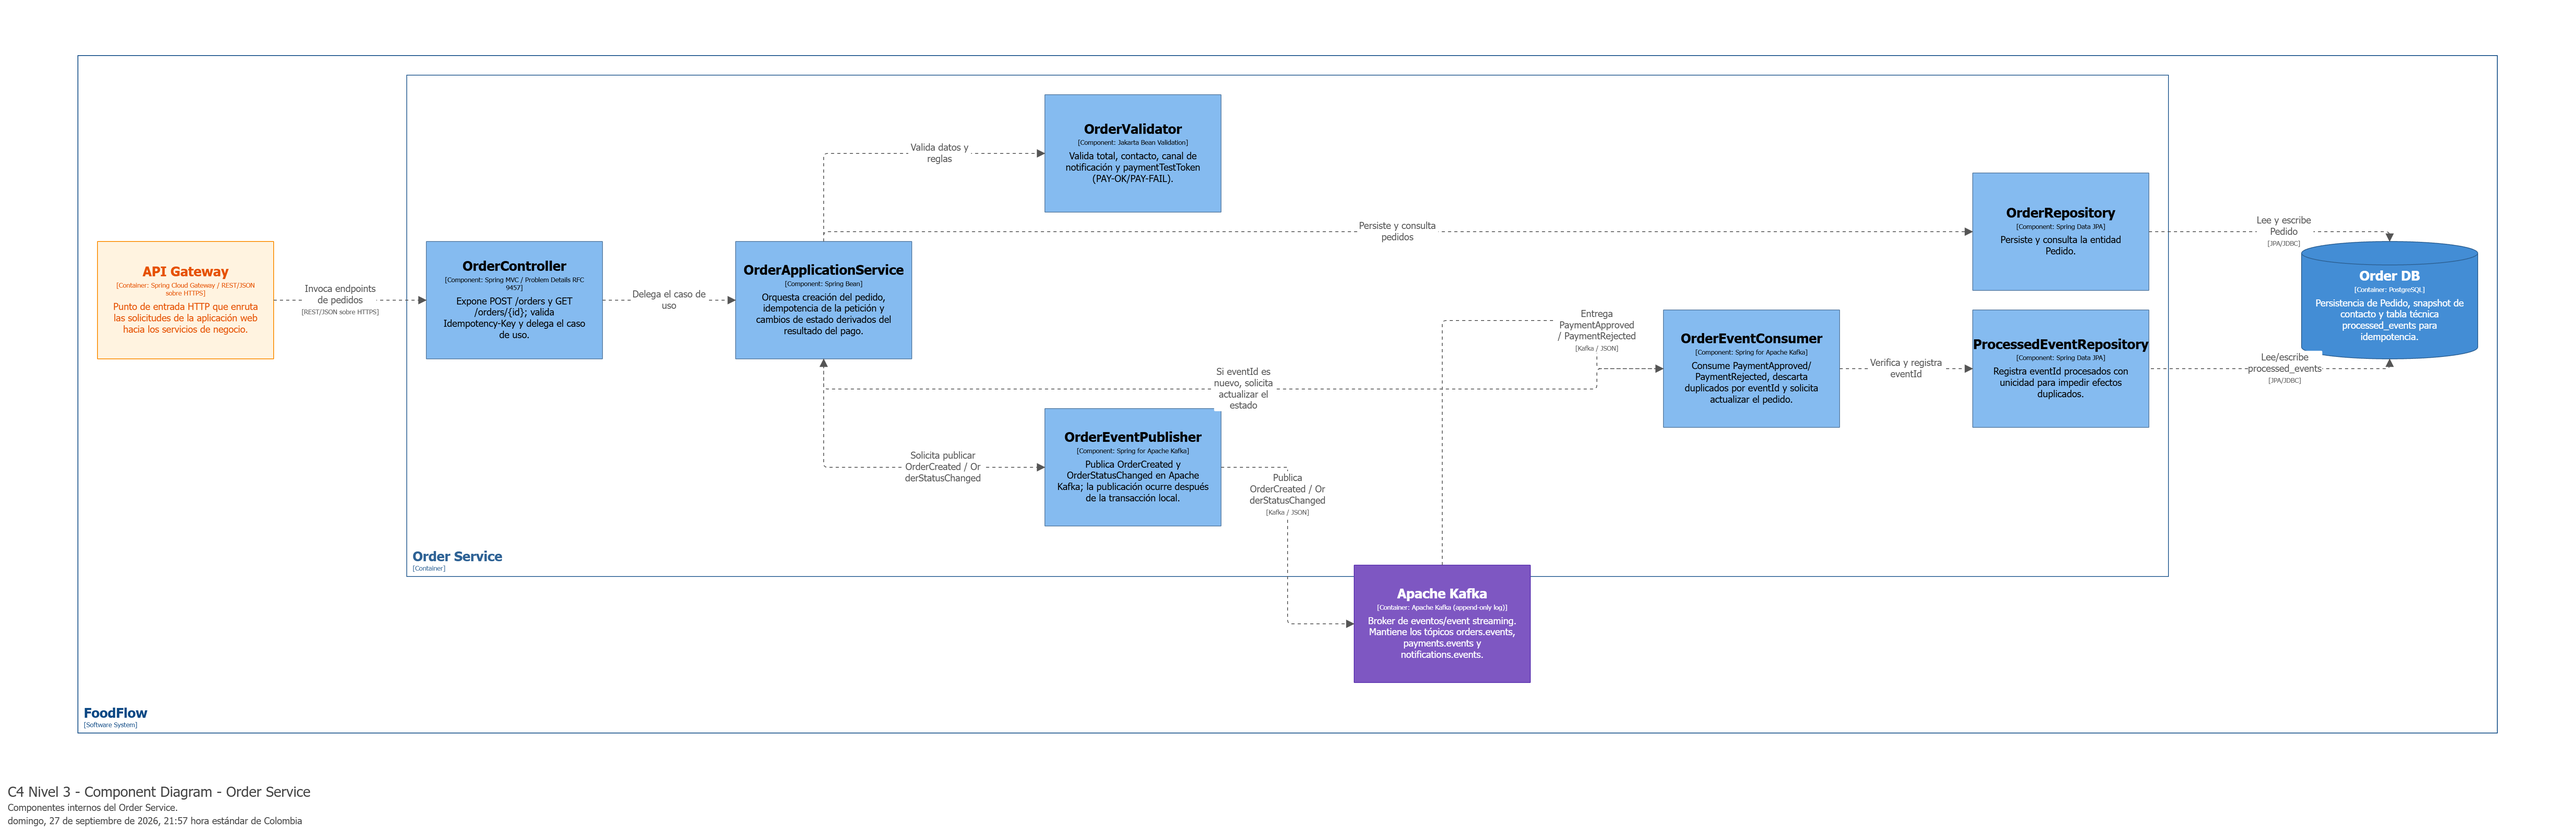
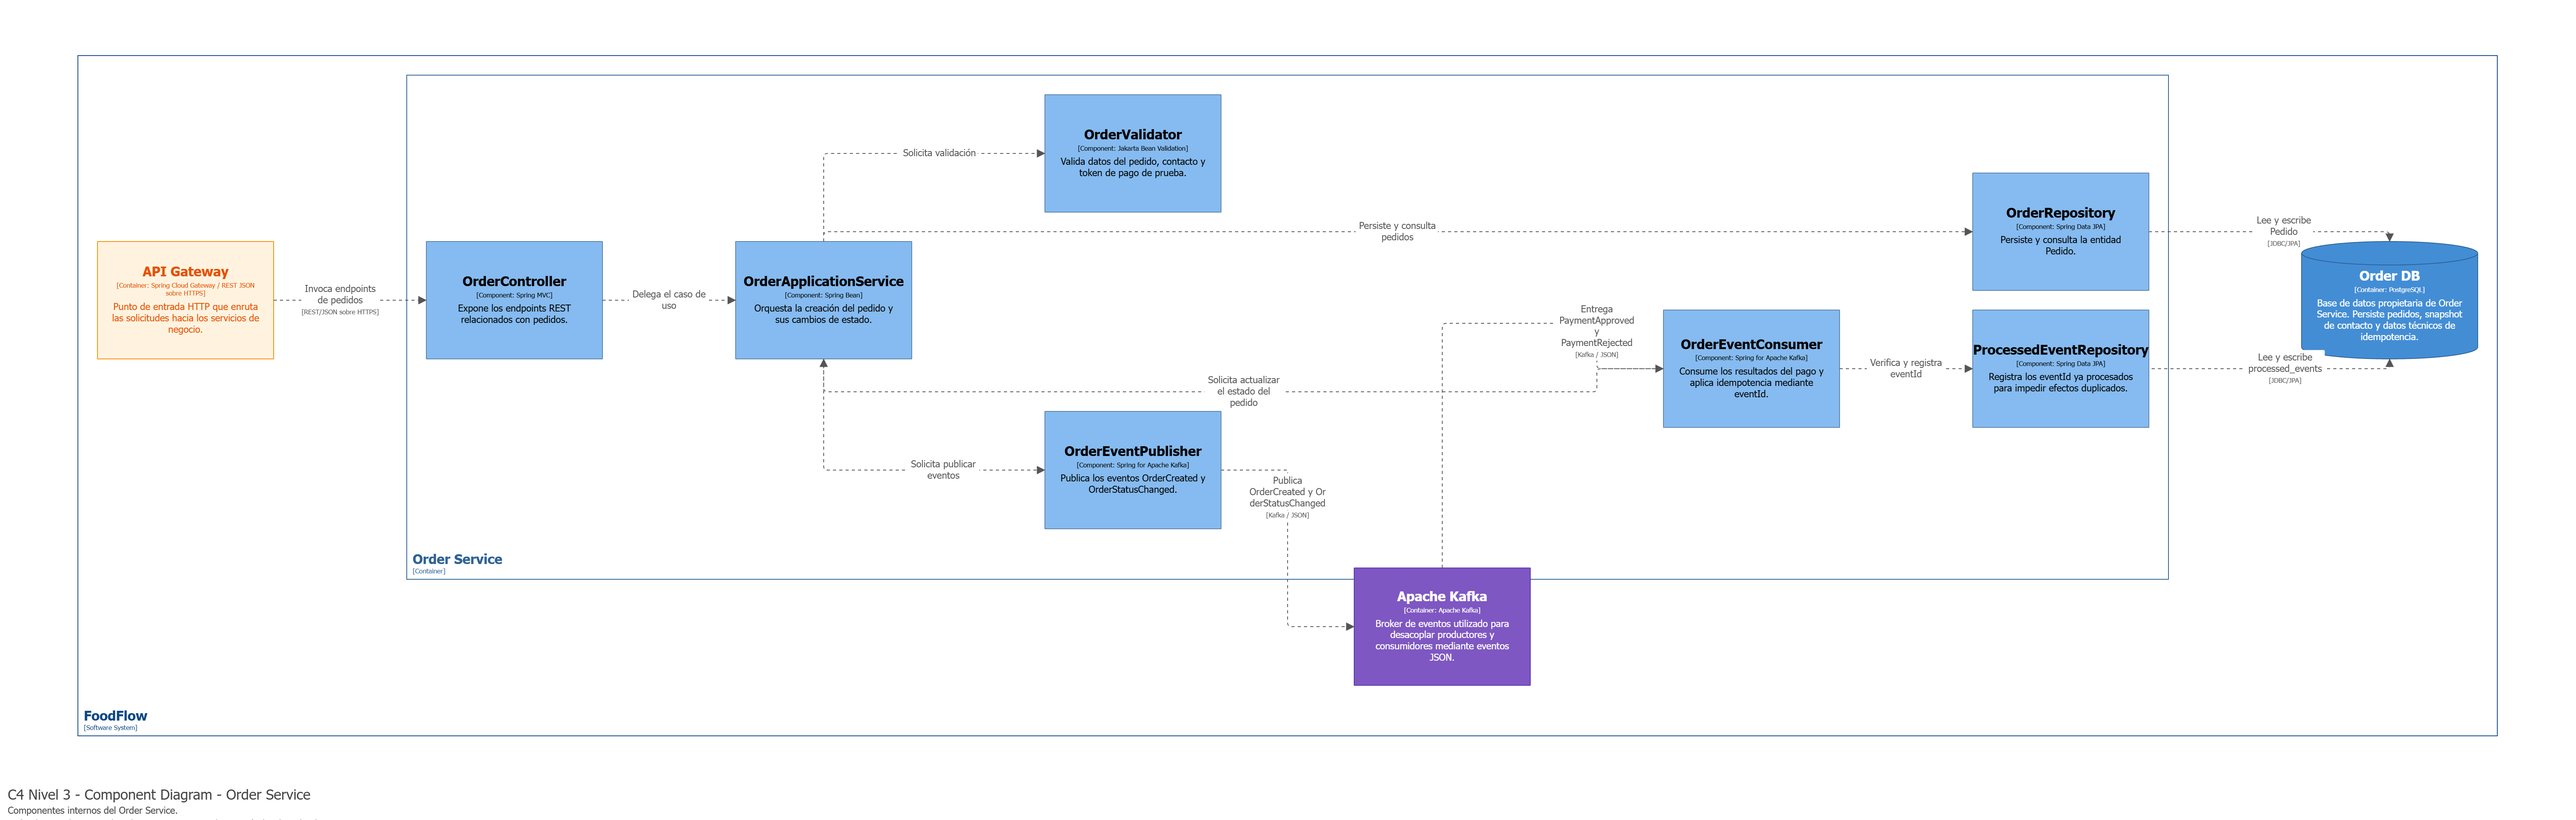
docs(diagramas): alinea diagramas y fuentes con el abanico y añade gráficas por nivel [HU-704] (#121)

diff --git a/docs/informe/propuesta-mercado-laboral-graficas.md b/docs/informe/propuesta-mercado-laboral-graficas.md
@@ -1,0 +1,117 @@
+# Propuesta: gráficas por nivel de experiencia en §2.5
+
+[← Informe técnico](README.md)
+
+> `main.tex` lo edita únicamente Sara (`CLAUDE.md` §1). Esta página **propone** el cambio; no lo aplica.
+
+## Qué se propone
+
+Añadir a la sección **2.5 «Matriz de Mercado Laboral vs Estilo y Stack»** cuatro gráficas que separan la información laboral por nivel de experiencia:
+
+| Figura | Archivo (ya en el repositorio) | Fuente |
+|---|---|---|
+| Vacantes Junior por tecnología | `docs/informe/figuras/vacantes_junior_colombia.png` | `vacantes_junior_colombia.mmd` |
+| Vacantes Senior por tecnología | `docs/informe/figuras/vacantes_senior_colombia.png` | `vacantes_senior_colombia.mmd` |
+| Salario mensual observado, perfiles Junior | `docs/informe/figuras/salarios_junior_colombia.png` | `salarios_junior_colombia.mmd` |
+| Salario mensual observado, perfiles Senior | `docs/informe/figuras/salarios_senior_colombia.png` | `salarios_senior_colombia.mmd` |
+
+Las fuentes están en `docs/wiki/02-arquitectura/diagramas/fuentes/`. Las imágenes están en la ruta relativa a `main.tex`, así que el bloque compila sin tocar `\graphicspath`.
+
+**Dónde insertarlo:** justo después de la figura «Mercado laboral - ofertas publicadas durante el último mes» (`figuras/ofertas-mercado-laboral.png`) y antes del comentario `% 3. DISENO EJEMPLO PRACTICO`.
+
+## Antes de aplicarlo: tres puntos a decidir
+
+1. **Las cifras salariales no tienen `\cite`.** Las notas dicen «vacantes reales publicadas en Colombia durante 2026», pero no identifican las vacantes: Junior 3.0 / 2.75 / 4.4 / 5.5 M y Senior 16.5 / 9.0 / 7.0 / 16.0 M. El criterio 3 de HU-702 exige que ninguna cifra quede sin fuente. Hace falta un `\bibitem` por vacante, como `job-java-81` o `job-kafka-9m`, y citarlo en la nota de cada figura. Los conteos de vacantes sí tienen metodología reproducible (LinkedIn, filtros *Entry level* y *Mid-Senior level*, corte del 30-09-2026), pero conviene citarlos igual que `linkedin-*-jobs`.
+2. **Los salarios Senior no cuadran con la matriz.** La matriz de §2.5 da para Java + Spring Boot «COP 8.1 M/mes; otras ofertas revisadas: aprox. COP 4.5--10 M», y CENISOFT/Fedesoft «Senior Tipo I COP 6.7--9.1 M/mes». La gráfica Senior pone Spring Boot en **16.5 M** y Kafka en **16.0 M**. Puede ser correcto con otra muestra, pero el texto tendría que explicar la diferencia o la matriz y la gráfica se contradicen.
+3. **La gráfica salarial anterior sigue en el informe.** `figuras/mercado-laboral.png` todavía muestra Kafka en 9.5 M; la fuente ya se corrigió a 9.0 M, que es el tope publicado de `job-kafka-9m`. Hay dos opciones: reexportarla desde `mercado-laboral.mmd` o retirarla si las cuatro gráficas nuevas la sustituyen.
+
+## Bloque LaTeX propuesto
+
+```latex
+\subsubsection{Mercado laboral por nivel de experiencia}
+
+Las siguientes gráficas separan la información laboral observada por nivel de experiencia y por tecnología. Para las vacantes se utilizan los filtros de experiencia de LinkedIn Colombia; para los salarios, valores observados en vacantes reales publicadas en Colombia durante 2026. En todos los casos las cifras deben interpretarse como evidencia observacional y no como estadísticas oficiales del mercado laboral colombiano.
+
+\begin{figure}[H]
+    \centering
+    \includegraphics[width=0.88\textwidth]{figuras/vacantes_junior_colombia.png}
+    \caption{Vacantes Junior por tecnología en Colombia durante el último mes.}
+    \label{fig:vacantes-junior}
+
+    \vspace{0.2cm}
+    \begin{minipage}{0.92\textwidth}
+        \footnotesize
+        \textit{Fuente y metodología:} resultados públicos de búsqueda en LinkedIn Colombia, con corte al 30 de septiembre de 2026 y publicaciones del último mes. Para el nivel Junior se utilizó el filtro de experiencia \textit{Entry level}. Los valores corresponden a resultados de búsqueda por palabra clave y no representan una estadística oficial de empleo ni garantizan que todas las publicaciones sean vacantes únicas.
+    \end{minipage}
+\end{figure}
+
+\begin{figure}[H]
+    \centering
+    \includegraphics[width=0.88\textwidth]{figuras/vacantes_senior_colombia.png}
+    \caption{Vacantes Senior por tecnología en Colombia durante el último mes.}
+    \label{fig:vacantes-senior}
+
+    \vspace{0.2cm}
+    \begin{minipage}{0.92\textwidth}
+        \footnotesize
+        \textit{Fuente y metodología:} resultados públicos de búsqueda en LinkedIn Colombia, con corte al 30 de septiembre de 2026 y publicaciones del último mes. Para aproximar el nivel Senior se utilizó el filtro \textit{Mid-Senior level}; la gráfica representa la presencia de cada tecnología en publicaciones orientadas a experiencia media y alta, no un conteo oficial de puestos Senior únicos.
+    \end{minipage}
+\end{figure}
+
+\begin{figure}[H]
+    \centering
+    \includegraphics[width=0.88\textwidth]{figuras/salarios_junior_colombia.png}
+    \caption{Salario mensual observado en vacantes Junior asociadas al stack tecnológico en Colombia.}
+    \label{fig:salarios-junior}
+
+    \vspace{0.2cm}
+    \begin{minipage}{0.92\textwidth}
+        \footnotesize
+        \textit{Fuente y metodología:} valores observados en vacantes reales publicadas en Colombia durante 2026 que incluyen las tecnologías analizadas entre sus requisitos % TODO: \cite{...} de cada vacante
+        . No representan el salario promedio de cada tecnología: la remuneración corresponde al cargo completo. Cuando la publicación presentó un rango se utilizó su punto medio, únicamente para la representación gráfica. La vacante de Kafka estaba clasificada como Junior--Mid, por lo que su valor es una referencia observada y no un promedio Junior del mercado.
+    \end{minipage}
+\end{figure}
+
+\begin{figure}[H]
+    \centering
+    \includegraphics[width=0.88\textwidth]{figuras/salarios_senior_colombia.png}
+    \caption{Salario mensual observado en vacantes Senior asociadas al stack tecnológico en Colombia.}
+    \label{fig:salarios-senior}
+
+    \vspace{0.2cm}
+    \begin{minipage}{0.92\textwidth}
+        \footnotesize
+        \textit{Fuente y metodología:} valores observados en vacantes reales publicadas en Colombia durante 2026 para perfiles de experiencia avanzada que incluyen Spring Boot, Angular, PostgreSQL o Kafka en su stack % TODO: \cite{...} de cada vacante
+        . No deben interpretarse como salarios promedio por tecnología, sino como referencias de cargos reales asociados a esas herramientas. Cuando la publicación expresó un intervalo se utilizó su punto medio, únicamente para facilitar la comparación visual.
+    \end{minipage}
+\end{figure}
+
+\textbf{Interpretación por nivel.} Las gráficas de vacantes reflejan la \textbf{presencia de cada tecnología en publicaciones laborales}, mientras que las salariales muestran \textbf{remuneraciones observadas en cargos reales asociados al stack}; por eso una mayor cantidad de ofertas no implica un salario superior. PostgreSQL aparece como requisito transversal en perfiles backend, de datos, DevOps y full stack, mientras que Kafka se concentra en un subconjunto menor de posiciones orientadas a sistemas distribuidos, integración y arquitecturas basadas en eventos. Experiencia, nivel de inglés, modalidad de contratación, tamaño de la organización y combinación de tecnologías pueden producir diferencias significativas entre ofertas.
+
+\begin{table}[H]
+\centering
+\caption{Criterio utilizado para clasificar la información laboral por nivel.}
+\label{tab:criterios-mercado-laboral}
+\small
+\renewcommand{\arraystretch}{1.25}
+\begin{tabular}{p{3.0cm} p{4.3cm} p{6.4cm}}
+\toprule
+\textbf{Variable} & \textbf{Criterio utilizado} & \textbf{Interpretación} \\
+\midrule
+Vacantes Junior & LinkedIn: \textit{Entry level} & Publicaciones asociadas a perfiles de entrada o menor experiencia. \\
+Vacantes Senior & LinkedIn: \textit{Mid-Senior level} & Publicaciones asociadas a perfiles con experiencia media o avanzada. \\
+Salarios Junior & Vacantes reales publicadas en Colombia durante 2026 & Salarios observados; no corresponden a un promedio nacional por tecnología. \\
+Salarios Senior & Vacantes reales publicadas en Colombia durante 2026 & Salarios observados en roles avanzados asociados a las tecnologías analizadas. \\
+\bottomrule
+\end{tabular}
+\end{table}
+```
+
+### Cambios respecto al borrador original
+
+- `\subsection*` pasa a un único `\subsubsection` numerado dentro de §2.5, y la «Interpretación» y la tabla quedan como párrafo y tabla de esa subsubsección.
+- Rutas `figuras/...` para que `\includegraphics` las encuentre desde `docs/informe/`.
+- Se quitan las líneas «Archivo de imagen: …», que eran notas de trabajo.
+- Anchura de las figuras a `0.88\textwidth`, como la gráfica salarial que ya tiene §2.5.
+- Del preámbulo del borrador solo se necesitan `float`, `booktabs`, `array` y `graphicx`, que `main.tex` ya carga; `caption` no hace falta porque el bloque no usa `\captionsetup`.
+- Se marcan con `% TODO` los dos lugares donde faltan las citas de las vacantes (punto 1).

diff --git a/docs/wiki/02-arquitectura/diagramas/README.md b/docs/wiki/02-arquitectura/diagramas/README.md
@@ -2,7 +2,7 @@
 
 [← Índice de la wiki](../../Home.md)
 
-Las **imágenes exportadas** del informe técnico viven aquí, versionadas, y las páginas de la wiki las muestran donde hablan de arquitectura. Las **fuentes** (`workspace.dsl`, `.mmd`, `.puml`, `.dbml`) las versiona HU-704.
+Las **imágenes exportadas** del informe técnico viven aquí, versionadas, y las páginas de la wiki las muestran donde hablan de arquitectura. Las **fuentes** están en [`fuentes/`](fuentes/) (HU-704). Las imágenes que cita `main.tex` se copian además a `docs/informe/diagramas/` y `docs/informe/figuras/`, que es donde las busca el informe.
 
 | Imagen | Vista | Dónde se muestra en la wiki |
 |---|---|---|
@@ -12,23 +12,27 @@ Las **imágenes exportadas** del informe técnico viven aquí, versionadas, y la
 | `c4-c3-order-service.png` | C3 Componentes de Order Service | [Convenciones](../../04-implementacion/convenciones.md) |
 | `c4-code-order-application-service.png` | Nivel de código | [Convenciones](../../04-implementacion/convenciones.md) |
 | `c4-dynamic-order-flow.png` | Vista dinámica del flujo | [Estilo y flujo](../estilo-y-flujo.md) |
-| `c4-deployment-development.png` | Despliegue en desarrollo | [Runbook de la demostración](../../04-implementacion/runbook-demo.md) |
+| `c4-deployment-development.png` | Despliegue en desarrollo (vertical; el que usa el informe) | [Runbook de la demostración](../../04-implementacion/runbook-demo.md) |
+| `c4-deployment-development-horizontal.png` | Despliegue en desarrollo, de izquierda a derecha | Solo para la presentación de la sustentación; el informe no lo usa |
 | `system-landscape-foodflow.png` | System Landscape | [Visión y alcance](../../01-producto/vision-y-alcance.md) |
 | `modelo-datos-foodflow.png` | Modelo de datos | [Persistencia](../../03-contratos/persistencia.md) |
 
 Una imagen que contradiga al informe se corrige regenerándola desde su fuente, nunca editando la wiki para que cuadre con la imagen.
 
-| Diagrama | Herramienta | Fuente esperada |
+| Diagrama | Herramienta | Fuente |
 |---|---|---|
-| C1 Contexto, C2 Contenedores, C3 Componentes (Order Service), System Landscape | Structurizr DSL | `workspace.dsl` (una sola fuente para las cuatro vistas) |
-| Dinámico (flujo principal) | Mermaid | `foodflow-dinamico.mmd` |
-| Despliegue | PlantUML | `foodflow-deployment.puml` |
-| Modelo de datos | DBML (dbdiagram.io) | `foodflow-modelo-datos.dbml` |
-| HLD | A definir | Ver informe |
+| C1, C2, C3 (Order Service), System Landscape, vista dinámica y despliegue (vertical y horizontal) | Structurizr DSL | [`foodflow-structurizr-v9.dsl`](fuentes/foodflow-structurizr-v9.dsl) (una sola fuente; vistas `Dynamic_OrderFlow`, `Deployment_Development` y `Deployment_Development_Horizontal`) |
+| Nivel de código de Order Service | PlantUML | [`order-service-code-v3.puml`](fuentes/order-service-code-v3.puml) |
+| Modelo de datos | DBML (dbdiagram.io) | [`foodflow-modelo-datos-v9.dbml`](fuentes/foodflow-modelo-datos-v9.dbml) |
+| Gráficas de mercado laboral | Mermaid (`xychart-beta`) | `mercado-laboral.mmd`, `ofertas-mercado-laboral.mmd`, `vacantes_junior_colombia.mmd`, `vacantes_senior_colombia.mmd`, `salarios_junior_colombia.mmd` y `salarios_senior_colombia.mmd`, en [`fuentes/`](fuentes/) |
+| HLD | Elaborado a mano | Sin fuente versionada, por decisión del equipo |
+
+La vista dinámica y el despliegue salen de Structurizr, como indican las leyendas del informe, y no de Mermaid o PlantUML como decía la primera versión de esta tabla.
 
 ## Convenciones
 
 - Los elementos **fuera de alcance** (Backoffice, Analítica) usan borde punteado.
 - Los diagramas usan `OrderStatusChanged` (no `OrderUpdated`) y reflejan `PAY-OK` / `PAY-FAIL`.
 - Ninguna base de datos se conecta a Kafka en ningún diagrama.
+- Notification Service consume `PaymentApproved`/`PaymentRejected` en paralelo con Order Service (abanico), no `OrderStatusChanged`.
 - Cada cambio de diseño que altere un diagrama actualiza su fuente en el mismo PR.

diff --git a/docs/wiki/06-backlog/estado.md b/docs/wiki/06-backlog/estado.md
@@ -51,7 +51,7 @@
 | [HU-606](epicas/EP-06-resiliencia-y-calidad.md) | Validar el flujo end-to-end contenerizado | 6 | Sara | 8 | Terminada | #107 | Flujos PAY-OK y PAY-FAIL verificados en los once contenedores; ocho eventos observados con un correlationId por pedido |
 | [HU-608](epicas/EP-06-resiliencia-y-calidad.md) | Verificar los atributos de calidad | 6 | Sara | 5 | En revisión | #119 | Asignación transferida (issue #50). Los diez criterios verificados con `bash scripts/verify-quality-attributes.sh` sobre el entorno Compose: valores, entorno y fecha en [Atributos de calidad medidos](../04-implementacion/pruebas/atributos-de-calidad.md). Cierra el punto abierto A-5 |
 | [HU-701](epicas/EP-07-entregables-y-sustentacion.md) | README, tag y release | 6 | Sara | 3 | Pendiente | | |
-| [HU-704](epicas/EP-07-entregables-y-sustentacion.md) | Diagramas exportados desde sus fuentes | 6 | Juan | 2 | En revisión | #116 | Nueve diagramas y dos figuras en `docs/informe/`, en las rutas que espera `main.tex`; fuentes en `docs/wiki/02-arquitectura/diagramas/fuentes/`. Falta verificar los criterios 3 y 4 (abanico, `OrderStatusChanged`, `PAY-OK`/`PAY-FAIL`, borde punteado) |
+| [HU-704](epicas/EP-07-entregables-y-sustentacion.md) | Diagramas exportados desde sus fuentes | 6 | Juan | 2 | Terminada | #116, #121 | Diagramas reexportados desde un único `.dsl`, `.puml` y `.dbml`, con el abanico del resultado del pago; imágenes en las rutas que busca `main.tex`. Despliegue horizontal solo para la presentación. Propuesta de gráficas por nivel para §2.5 pendiente de Sara |
 | [HU-705](epicas/EP-07-entregables-y-sustentacion.md) | Lecciones aprendidas | 6 | Sara | 5 | Terminada | #110 | La §4 del informe pasa de placeholder a contenido: dificultades reales de Kafka, seis decisiones que cambiaron, el efecto de ADR-08 y siete recomendaciones para replicar el stack |
 | [HU-706](epicas/EP-07-entregables-y-sustentacion.md) | Presentación, demo y ensayo | 6 | Juan | 5 | Pendiente | | |
 | [HU-707](epicas/EP-07-entregables-y-sustentacion.md) | Segmento de arquitectura en la sustentación | 6 | Sara | 2 | Terminada | #111 | Agenda de 10 minutos, asistencia confirmada y respuestas del profesor registradas |
